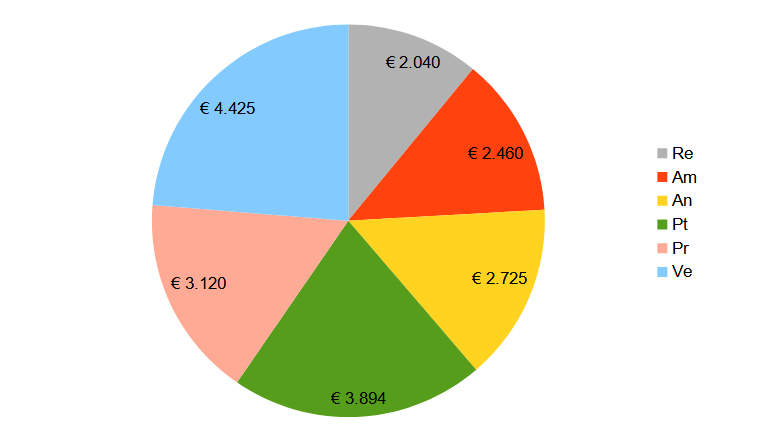
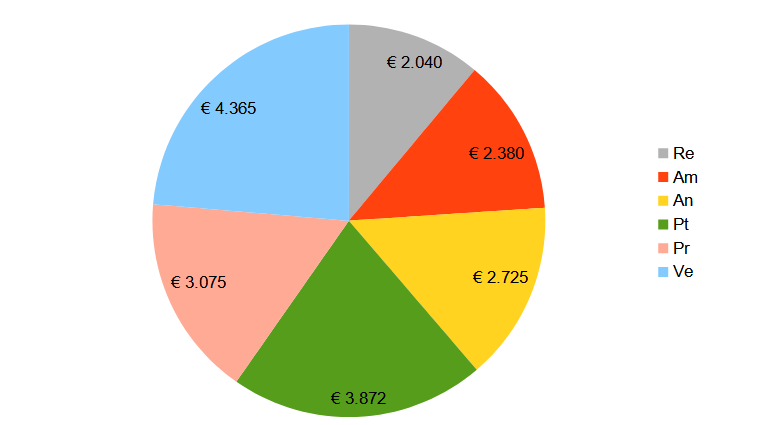
preventivo

diff --git a/esterni/piano_di_progetto/res/sez5_preventivo.tex b/esterni/piano_di_progetto/res/sez5_preventivo.tex
@@ -545,21 +545,21 @@ In molte delle tabelle e figure proposte, i ruoli sono stati abbreviati in quest
 		\begin{tabular} { m{3.5cm} c c c c c c c }
 			\rowcolor{lightgray}
 			\textbf{Nome} & \textbf{Re} & \textbf{Am} & \textbf{An} & \textbf{Pg} & \textbf{Pr} & \textbf{Ve} & \textbf{Totale} \\
-			Matteo Alba & 3 & 3 & 0 & 0 & 0 & 4 & 10 \\
-			Giacomo Bulbarelli & 0 & 0 & 0 & 4 & 6 & 0 & 10 \\
-			Alessandro Chimetto & 0 & 0 & 0 & 4 & 6 & 0 & 10 \\
-			Alessandro Dindinelli & 2 & 0 & 0 & 0 & 4 & 4 & 10 \\
-			Lucia Fenu & 0 & 3 & 0 & 2 & 3 & 2 & 10 \\
-			Paolo Scanferlato & 0 & 0 & 0 & 2 & 4 & 4 & 10 \\
-			Valton Tahiraj & 0 & 4 & 0 & 0 & 6 & 0 & 10 \\
-			\textbf{Ore totali Ruolo} & \textbf{5} & \textbf{10} & \textbf{0} & \textbf{12} & \textbf{29}& \textbf{14} & \textbf{70}
+			Matteo Alba & 2 & 3 & 0 & 3 & 4 & 8 & 20 \\
+			Giacomo Bulbarelli & 0 & 3 & 0 & 3 & 8 & 6 & 20 \\
+			Alessandro Chimetto & 0 & 3 & 0 & 2 & 7 & 8 & 20 \\
+			Alessandro Dindinelli & 1 & 3 & 0 & 3 & 7 & 6 & 20 \\
+			Lucia Fenu & 2 & 4 & 0 & 2 & 4 & 8 & 20 \\
+			Paolo Scanferlato & 1 & 3 & 0 & 3 & 5 & 8 & 20 \\
+			Valton Tahiraj & 1 & 2 & 0 & 1 & 8 & 8 & 20 \\
+			\textbf{Ore totali Ruolo} & \textbf{7} & \textbf{21} & \textbf{0} & \textbf{17} & \textbf{43}& \textbf{52} & \textbf{140}
 		\end{tabular}
 		\caption{Preventivo - Incremento VI - ore per persona/ruolo}
 	\end{center}
 \end{table}
 \begin{figure} [h!]
 	\centering
-	\includegraphics[width=0.8\textwidth]{res/img/grafici/Incremento6Ore.jpg}
+	\includegraphics[width=0.8\textwidth]{res/img/grafici/preventivo-barre- incremento6.png}
 	\caption{Preventivo - Incremento VI - ore per persona/ruolo} 
 \end{figure}
 
@@ -571,13 +571,13 @@ In molte delle tabelle e figure proposte, i ruoli sono stati abbreviati in quest
 		\begin{tabular} { m{3cm} >{\centering}m{1.5cm} c }
 			\rowcolor{lightgray}
 			\textbf{Ruolo} & \textbf{Ore} & \textbf{Costo in \euro} \\
-			Responsabile & 5 & 150,00 \\
-			Amministratore & 10 & 200,00 \\
+			Responsabile & 7 & 210,00 \\
+			Amministratore & 21 & 420,00 \\
 			Analista & 0 & 0,00 \\
-			Progettista & 12 & 264,00 \\
-			Programmatore & 29 & 435,00 \\
-			Verificatore & 14 & 210,00 \\
-			\textbf{Totale} & \textbf{70} & \textbf{1259,00} \\
+			Progettista & 17 & 374,00 \\
+			Programmatore & 43 & 645,00 \\
+			Verificatore & 52 & 780,00 \\
+			\textbf{Totale} & \textbf{140} & \textbf{2429,00} \\
 		\end{tabular}
 		\caption{Preventivo - Incremento VI  - costo per ruolo}
 	\end{center}
@@ -585,12 +585,12 @@ In molte delle tabelle e figure proposte, i ruoli sono stati abbreviati in quest
 
 \begin{figure} [h!]
 	\centering
-	\includegraphics[width=0.8\textwidth]{res/img/grafici/Incremento6Costo.jpg}
+	\includegraphics[width=0.8\textwidth]{res/img/grafici/preventivo-torta-inc6.png}
 	\caption{Preventivo - Incremento VI  - costo per ruolo} 
 \end{figure}
 \newpage
 
-\subsection{Validazione e collaudo}
+\subsection{Incremento VII}
 
 	\subsubsection{Prospetto orario}
 
@@ -600,23 +600,23 @@ In molte delle tabelle e figure proposte, i ruoli sono stati abbreviati in quest
 				\begin{tabular} { m{3.5cm} c c c c c c c }
 					\rowcolor{lightgray}
 					\textbf{Nome} & \textbf{Re} & \textbf{Am} & \textbf{An} & \textbf{Pg} & \textbf{Pr} & \textbf{Ve} & \textbf{Totale} \\
-					Matteo Alba & 0 & 3 & 0 & 2 & 0 & 8 & 13 \\
-					Giacomo Bulbarelli & 1 & 1 & 0 & 2 & 2 & 7 & 13 \\
-					Alessandro Chimetto & 1 & 0 & 0 & 3 & 2 & 7 & 13 \\
-					Alessandro Dindinelli & 0 & 2 & 0 & 2 & 2 & 7 & 13 \\
-					Lucia Fenu & 0 & 4 & 0 & 2 & 2 & 5 & 13 \\
-					Paolo Scanferlato & 2 & 0 & 0 & 2 & 2 & 7 & 13 \\
-					Valton Tahiraj & 2 & 2 & 0 & 2 & 2 & 5 & 13 \\
-					\textbf{Ore totali Ruolo} & \textbf{6} & \textbf{12} & \textbf{0} & \textbf{15} & \textbf{12}& \textbf{46} & \textbf{91}
+					Matteo Alba & 0 & 5 & 0 & 0 & 2 & 3 & 10 \\
+					Giacomo Bulbarelli & 2 & 0 & 0 & 0 & 3 & 5 & 10 \\
+					Alessandro Chimetto & 0 & 3 & 0 & 0& 3 & 4 & 10 \\
+					Alessandro Dindinelli & 0 & 2 & 0 & 0 & 3 & 5 & 10 \\
+					Lucia Fenu & 0 & 3& 0 & 0 & 3 & 4 & 10 \\
+					Paolo Scanferlato & 0 & 2 & 0 &0 & 3 & 5 & 10 \\
+					Valton Tahiraj & 2 & 1 & 0 & 0 & 3 & 4 & 10 \\
+					\textbf{Ore totali Ruolo} & \textbf{4} & \textbf{16} & \textbf{0} & \textbf{0} & \textbf{20}& \textbf{30} & \textbf{70}
 				\end{tabular}
-				\caption{Preventivo - Validazione e collaudo - ore per persona/ruolo}
+				\caption{Preventivo - Incremento VII - ore per persona/ruolo}
 			\end{center}
 		\end{table}
 	
 		\begin{figure} [h!]
 			\centering
-			\includegraphics[width=0.8\textwidth]{res/img/grafici/ValidazioneECollaudoOre.jpg}
-			\caption{Preventivo - Validazione e collaudo - ore per persona/ruolo} 
+			\includegraphics[width=0.8\textwidth]{res/img/grafici/preventivo-barre- val.png}
+			\caption{Preventivo - Incremento VII - ore per persona/ruolo} 
 		\end{figure}
 	
 	\newpage
@@ -629,22 +629,22 @@ In molte delle tabelle e figure proposte, i ruoli sono stati abbreviati in quest
 				\begin{tabular} { m{3cm} >{\centering}m{1.5cm} c }
 					\rowcolor{lightgray}
 					\textbf{Ruolo} & \textbf{Ore} & \textbf{Costo in \euro} \\
-					Responsabile & 6 & 180,00 \\
-					Amministratore & 12 & 240,00 \\
+					Responsabile & 4 & 120,00 \\
+					Amministratore & 16 & 320,00 \\
 					Analista & 0 & 0 \\
-					Progettista & 15 & 330,00 \\
-					Programmatore & 12 & 180,00 \\
-					Verificatore & 46 & 690,00 \\
-					\textbf{Totale} & \textbf{91} & \textbf{1620,00} \\
+					Progettista & 0 & 0 \\
+					Programmatore & 20 & 300,00 \\
+					Verificatore & 30 & 450,00 \\
+					\textbf{Totale} & \textbf{70} & \textbf{1190,00} \\
 				\end{tabular}
-				\caption{Preventivo - Validazione e Collaudo - costo per ruolo}
+				\caption{Preventivo - Incremento VII - costo per ruolo}
 			\end{center}
 		\end{table}
 	
 		\begin{figure} [h!]
 			\centering
-			\includegraphics[width=0.8\textwidth]{res/img/grafici/ValidazioneECollaudoCosto.jpg}
-			\caption{Preventivo - Validazione e Collaudo - costo per ruolo} 
+			\includegraphics[width=0.8\textwidth]{res/img/grafici/preventivo-torta-val.png}
+			\caption{Preventivo - Incremento VII - costo per ruolo} 
 		\end{figure}
 	
 \newpage
@@ -659,14 +659,14 @@ In molte delle tabelle e figure proposte, i ruoli sono stati abbreviati in quest
 				\begin{tabular} { m{3.5cm} c c c c c c c }
 					\rowcolor{lightgray}
 					\textbf{Nome} & \textbf{Re} & \textbf{Am} & \textbf{An} & \textbf{Pg} & \textbf{Pr} & \textbf{Ve} & \textbf{Totale} \\
-					Matteo Alba & 14 & 22 & 17 & 18 & 18 & 44 & 133 \\
-					Giacomo Bulbarelli & 13 & 13 & 18 & 32 & 27 & 30 & 133 \\
-					Alessandro Chimetto & 10 & 9 & 18 & 30 & 29 & 37 & 133 \\
-					Alessandro Dindinelli & 7 & 14 & 16 & 26 & 30 & 40 & 133 \\
-					Lucia Fenu & 5 & 19 & 15 & 29 & 27 & 38 & 133 \\
-					Paolo Scanferlato & 11 & 15 & 11 & 27 & 25 & 44 & 133 \\
-					Valton Tahiraj & 8 & 16 & 14 & 25 & 30 & 40 & 133 \\
-					\textbf{Ore totali Ruolo} & \textbf{68} & \textbf{108} & \textbf{109} & \textbf{187} & \textbf{186}& \textbf{273} & \textbf{931}
+					Matteo Alba & 13& 24& 17 & 19 & 24 & 43 & 140 \\
+					Giacomo Bulbarelli & 14 & 155 & 18 & 29 & 39 & 34 & 140 \\
+					Alessandro Chimetto & 9 & 15 & 18 & 25 & 31 & 42 & 140 \\
+					Alessandro Dindinelli & 6 & 17 & 16 & 27 & 34 & 40 & 140 \\
+					Lucia Fenu & 7 & 19 & 15 & 27 & 29 & 43 & 140 \\
+					Paolo Scanferlato & 10 & 20 & 11 & 26 & 27 & 46 & 140 \\
+					Valton Tahiraj & 9& 13 & 14 & 24 & 33 & 47 & 140 \\
+					\textbf{Ore totali Ruolo} & \textbf{68} & \textbf{123} & \textbf{109} & \textbf{177} & \textbf{208}& \textbf{295} & \textbf{980}
 				\end{tabular}
 				\caption{Preventivo - Ore totali per persona/ruolo}
 			\end{center}
@@ -674,7 +674,7 @@ In molte delle tabelle e figure proposte, i ruoli sono stati abbreviati in quest
 	
 		\begin{figure} [h!]
 			\centering
-			\includegraphics[width=0.8\textwidth]{res/img/grafici/OreTotaliInvestimento.jpg}
+			\includegraphics[width=0.8\textwidth]{res/img/grafici/preventivo-barre-finale.png}
 			\caption{Preventivo - Ore totali per persona/ruolo} 
 		\end{figure}
 	
@@ -689,12 +689,12 @@ In molte delle tabelle e figure proposte, i ruoli sono stati abbreviati in quest
 					\rowcolor{lightgray}
 					\textbf{Ruolo} & \textbf{Ore} & \textbf{Costo in \euro} \\
 					Responsabile & 68 & 2040,00 \\
-					Amministratore & 108 & 2160,00 \\
+					Amministratore & 123 & 2380,00 \\
 					Analista & 109 & 2725,00 \\
-					Progettista & 187 & 4114,00 \\
-					Programmatore & 186 & 2790,00 \\
-					Verificatore & 273 & 4095,00 \\
-					\textbf{Totale} & \textbf{931} & \textbf{17924,00} \\
+					Progettista & 177 & 3872,00 \\
+					Programmatore & 208 & 3075,00 \\
+					Verificatore & 295 & 4365,00 \\
+					\textbf{Totale} & \textbf{980} & \textbf{18457,00} \\
 				\end{tabular}
 				\caption{Preventivo - Costo totale per ruolo}
 			\end{center}
@@ -702,7 +702,7 @@ In molte delle tabelle e figure proposte, i ruoli sono stati abbreviati in quest
 	
 		\begin{figure} [h!]
 			\centering
-			\includegraphics[width=0.8\textwidth]{res/img/grafici/CostoTotaleInvestimento.jpg}
+			\includegraphics[width=0.8\textwidth]{res/img/grafici/preventivo-torta-costo finale.png}
 			\caption{Preventivo - Costo totale per ruolo} 
 		\end{figure}
 	
@@ -716,14 +716,14 @@ In molte delle tabelle e figure proposte, i ruoli sono stati abbreviati in quest
 				\begin{tabular} { m{3.5cm} c c c c c c c }
 					\rowcolor{lightgray}
 					\textbf{Nome} & \textbf{Re} & \textbf{Am} & \textbf{An} & \textbf{Pg} & \textbf{Pr} & \textbf{Ve} & \textbf{Totale} \\
-					Matteo Alba & 12 & 14 & 9 & 18 & 18 & 30 & 101 \\
-					Giacomo Bulbarelli & 6 & 5 & 6 & 32 & 27 & 25 & 101 \\
-					Alessandro Chimetto & 3 & 4 & 6 & 30 & 29 & 29 & 101 \\
-					Alessandro Dindinelli & 4 & 10 & 3 & 26 & 30 & 28 & 101 \\
-					Lucia Fenu & 4 & 13 & 2 & 29 & 27 & 26 & 101 \\
-					Paolo Scanferlato & 6 & 8 & 3 & 27 & 25 & 32 & 101 \\
-					Valton Tahiraj & 2 & 11 & 4 & 25 & 30 & 29 & 101 \\
-					\textbf{Ore totali Ruolo} & \textbf{37} & \textbf{65} & \textbf{33} & \textbf{187} & \textbf{186}& \textbf{199} & \textbf{707}
+					Matteo Alba & 11 & 16 & 9 & 19 & 24 & 29 & 108 \\
+					Giacomo Bulbarelli &7 & 7 & 6 & 29 & 30 & 29 & 108 \\
+					Alessandro Chimetto &2 & 10 & 6 & 25 & 31 & 34 & 108 \\
+					Alessandro Dindinelli & 3& 13 & 3 & 27 & 34 & 28 & 108 \\
+					Lucia Fenu & 6 & 13 & 2 & 27 & 29 & 31 & 108\\
+					Paolo Scanferlato & 5 & 13 & 3 & 26 & 27 & 34 & 108 \\
+					Valton Tahiraj & 3 & 8 & 4 & 24 & 33 & 36 & 108 \\
+					\textbf{Ore totali Ruolo} & \textbf{37} & \textbf{80} & \textbf{33} & \textbf{177} & \textbf{208}& \textbf{221} & \textbf{756}
 				\end{tabular}
 				\caption{Preventivo - Ore totali rendicontate per persona/ruolo}
 			\end{center}
@@ -731,7 +731,7 @@ In molte delle tabelle e figure proposte, i ruoli sono stati abbreviati in quest
 	
 		\begin{figure} [h!]
 			\centering
-			\includegraphics[width=0.8\textwidth]{res/img/grafici/OreRendicontate.jpg}
+			\includegraphics[width=0.8\textwidth]{res/img/grafici/preventivo-barre-finale-rendicontato.png}
 			\caption{Preventivo - Ore totali rendicontate per persona/ruolo} 
 		\end{figure}
 	
@@ -746,12 +746,12 @@ In molte delle tabelle e figure proposte, i ruoli sono stati abbreviati in quest
 					\rowcolor{lightgray}
 					\textbf{Ruolo} & \textbf{Ore} & \textbf{Costo in \euro} \\
 					Responsabile & 37 & 1110,00 \\
-					Amministratore & 65 & 1300,00 \\
+					Amministratore & 80 & 1600,00 \\
 					Analista & 33 & 825,00 \\
-					Progettista & 187 & 4114,00 \\
-					Programmatore & 186 & 2790,00 \\
-					Verificatore & 199 & 2985,00 \\
-					\textbf{Totale} & \textbf{707} & \textbf{13124,00} \\
+					Progettista & 177 &3894,00 \\
+					Programmatore & 208 & 3120,00 \\
+					Verificatore & 221 & 3315,00 \\
+					\textbf{Totale} & \textbf{707} & \textbf{13864*,00} \\
 				\end{tabular}
 				\caption{Preventivo - Prospetto economico rendicontato per ruolo}
 			\end{center}
@@ -759,10 +759,12 @@ In molte delle tabelle e figure proposte, i ruoli sono stati abbreviati in quest
 	
 		\begin{figure} [h!]
 			\centering
-			\includegraphics[width=0.8\textwidth]{res/img/grafici/CostoTotale.jpg}
+			\includegraphics[width=0.8\textwidth]{res/img/grafici/preventivo-torta-costo finale-rendicontato.png}
 			\caption{Preventivo - Prospetto economico rendicontato per ruolo} 
 		\end{figure}
 	
 	\subsubsection{Conclusioni}
 	
-	Il costo totale a carico della Proponente è di \textbf{\euro \ 13124,00}.
+	Il costo totale a carico della Proponente è di \textbf{\euro \ 13124,00}.\\
+	\\
+	\textbf{*} Il costo qui riportato è il riflesso di una pianificazione più precisa del lavoro previsto durante gli incrementi finali. Tale analisi di preventivo ha il solo scopo di mostrare le ore realmente previste alla conclusione del progetto. Pertanto il costo totale rimane invariato, come da contratto con il proponente, di \textbf{\euro \ 13124,00}.
